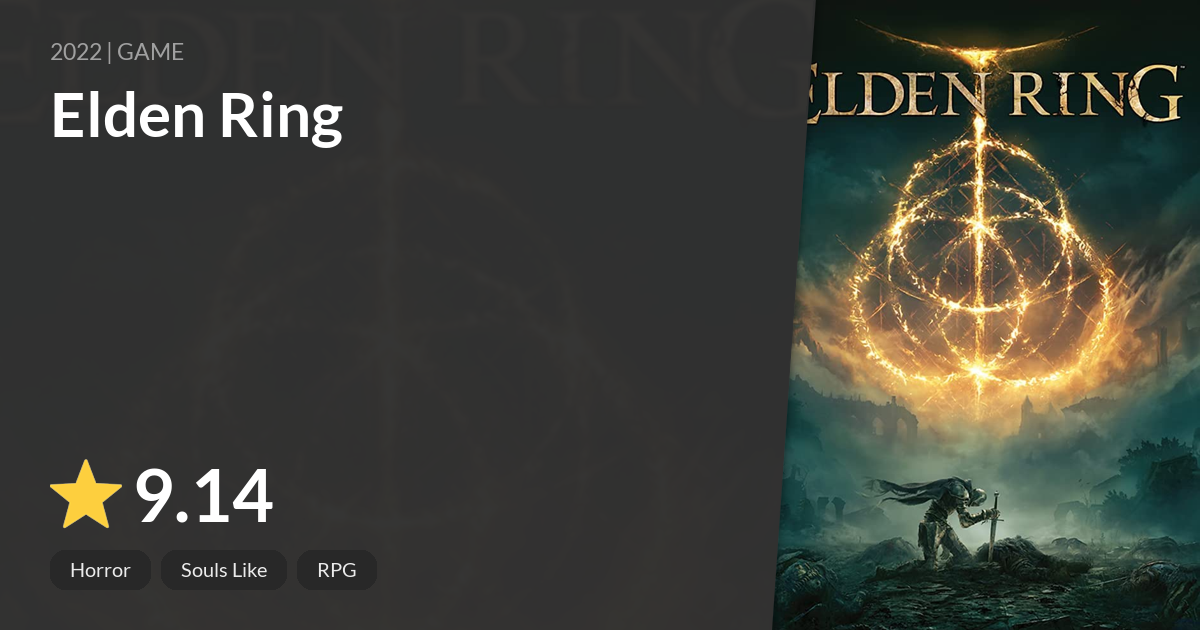
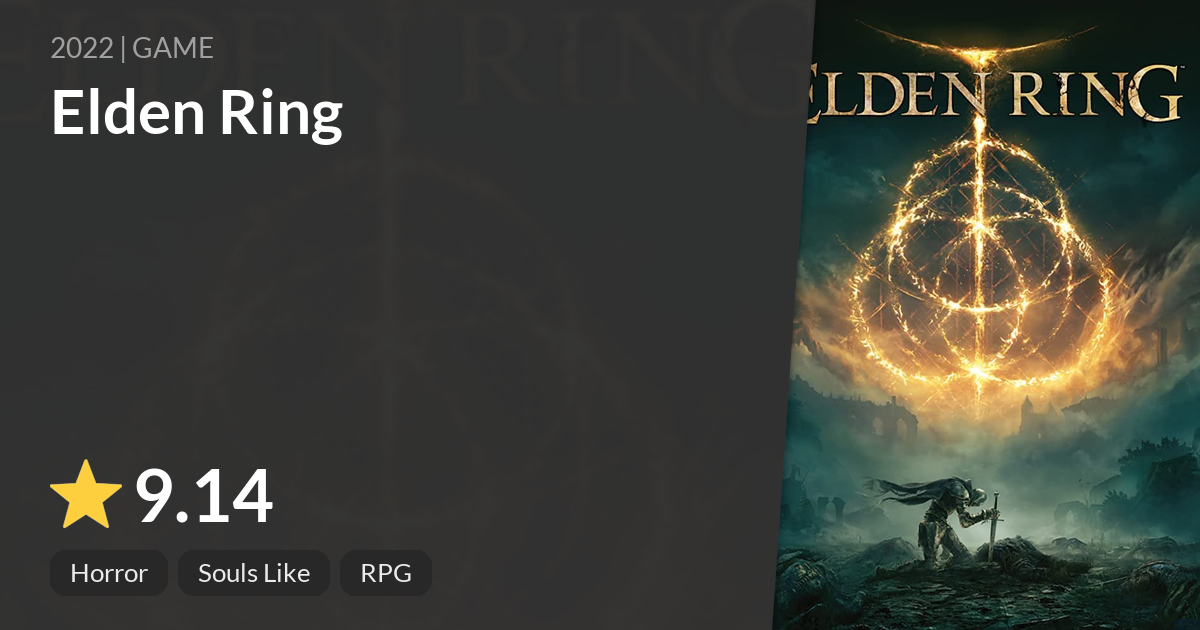
bigger font for desc and tags, better length trimming

diff --git a/pyingnim.py b/pyingnim.py
@@ -5,23 +5,23 @@ import argparse
 import textwrap
 from PIL import Image, ImageFilter, ImageDraw, ImageFont
 
-VERSION = "1.4"
+VERSION = "1.5"
 
 # FOR TEMPLATE 1200x630
 MIN_COVER_WIDTH = 446
 TITLE_FONT_SIZE = 62
-DESC_FONT_SIZE  = 23
-LEFT_MARGIN     = 50
-TAG_FONT_SIZE   = 20
-TAG_IN_MARGIN   = 20
-TAG_SPACING     = 10
-RATE_FONT_SIZE  = 72
-DIAGONAL_JUMP   = 15
+DESC_FONT_SIZE = 28
+LEFT_MARGIN = 50
+TAG_FONT_SIZE = 26
+TAG_IN_MARGIN = 20
+TAG_SPACING = 10
+RATE_FONT_SIZE = 72
+DIAGONAL_JUMP = 15
 
-FONT_BOLD       = "resources/Lato-Bold.ttf"
-FONT_REGULAR    = "resources/Lato-Regular.ttf"
-TEMPLATE        = "resources/tmp.png"
-STAR            = "resources/star.png"
+FONT_BOLD = "resources/Lato-Bold.ttf"
+FONT_REGULAR = "resources/Lato-Regular.ttf"
+TEMPLATE = "resources/tmp.png"
+STAR = "resources/star.png"
 
 
 def get_path(path) -> str:
@@ -109,18 +109,18 @@ def put_tags(image, tags) -> None:
         tImg = Image.new("RGBA", (ln + (TAG_IN_MARGIN * 2),
                          TAG_FONT_SIZE + TAG_IN_MARGIN), (40, 40, 40, 240))
         canvas = ImageDraw.Draw(tImg)
-        canvas.text((TAG_IN_MARGIN, TAG_IN_MARGIN / 3),
+        canvas.text((TAG_IN_MARGIN, TAG_IN_MARGIN / 3.5),
                     tag, fill=(235, 235, 235), font=font)
         tImg = add_corners(tImg, 15)
         image.paste(tImg, (start, 550), tImg)
         start += ln + TAG_SPACING + (TAG_IN_MARGIN * 2)
 
 
-def get_max_len(font, size, max=40) -> int:
+def get_max_len(text, font, size, max=100) -> int:
     for i in range(max):
-        l = int(font.getlength(('g' * i)))
-        if l > size:
-            return i
+        ln = int(font.getlength(text[:len(text)-i]))
+        if ln <= size:
+            return len(text) - i
     return max
 
 
@@ -131,14 +131,22 @@ def put_title(canvas, text) -> None:
         fontSize = fontSize - (10 * int(textSize / 70))
 
     font = ImageFont.FreeTypeFont(get_path(FONT_BOLD), fontSize)
-    lines = textwrap.wrap(text, width=get_max_len(font, 760))
-    canvas.text((LEFT_MARGIN, 75), '\n'.join(
+    lines = textwrap.wrap(text, width=get_max_len(text, font, 670))
+    canvas.text((LEFT_MARGIN, 72), '\n'.join(
         lines), fill=(255, 255, 255), font=font)
+
+
+def trim_text_to_len(text, ln) -> str:
+    if ln >= len(text):
+        return text
+    return f"{text[:ln-3]}..."
 
 
 def put_desc(canvas, text) -> None:
     font = ImageFont.FreeTypeFont(get_path(FONT_REGULAR), DESC_FONT_SIZE)
-    canvas.text((LEFT_MARGIN, 37), text, fill=(160, 160, 160), font=font)
+    max_len = get_max_len(text, font, 760)
+    canvas.text((LEFT_MARGIN, 30), trim_text_to_len(
+        text, max_len), fill=(160, 160, 160), font=font)
 
 
 def put_mark(image, canvas, text) -> None:

diff --git a/README.md b/README.md
@@ -1,5 +1,7 @@
 # pyIngnim
 
+[![CodeFactor](https://www.codefactor.io/repository/github/mzknek/pyingnim/badge)](https://www.codefactor.io/repository/github/mzknek/pyingnim)
+
 ```sh
 pyingnim.py -u "https://i.imgur.com/6RTo7Vv.jpg" -o "example.png" -t "Elden Ring" -d "2022 | GAME" -r "9.14" --tags "Horror" "Souls Like" "RPG'
 ```
